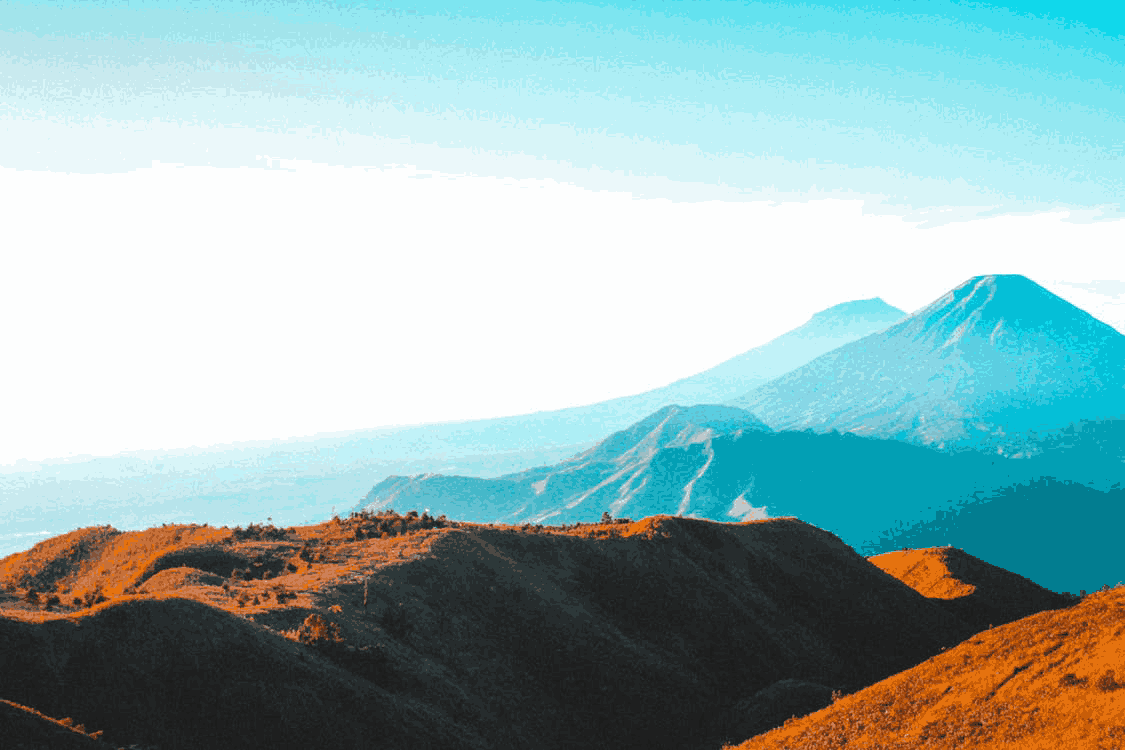
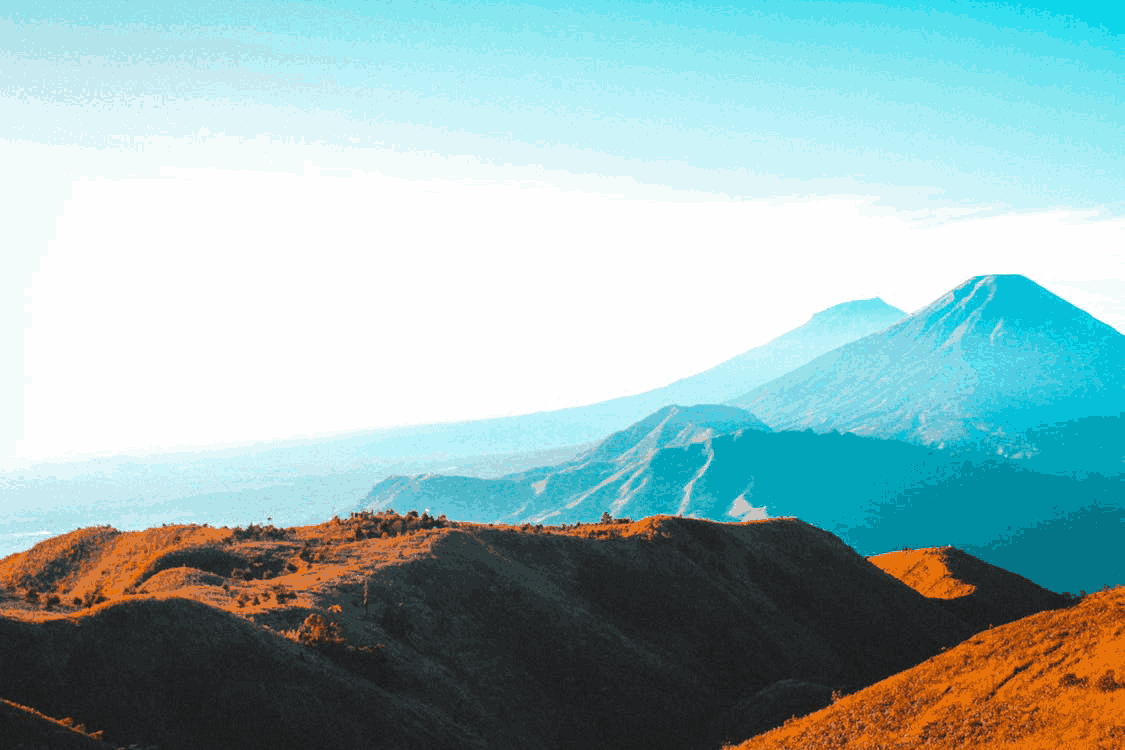
Add deterministic to go implementation

diff --git a/img2color.go b/img2color.go
@@ -15,9 +15,9 @@ import "image/color"
 
 func color_diff(a [3]int, b []int) int {
 	var d [3]int
-	d[0] = a[0]/257 - b[0]
-	d[1] = a[1]/257 - b[1]
-	d[2] = a[2]/257 - b[2]
+	d[0] = a[0]>>8 - b[0]
+	d[1] = a[1]>>8 - b[1]
+	d[2] = a[2]>>8 - b[2]
 	if d[0] < 0 {
 		d[0] *= -1
 	}
@@ -55,17 +55,17 @@ func assign_k(image image.Image, k int, k_med [][]int, start int, stop int, ch c
 	ch <- tmp_mat
 }
 
-func medium_k(image image.Image, k int, width int, height int, k_mat [][]int, ch_m chan []int) {
-	k_m := make([]int, 3)
+func medium_k(image image.Image, j int, width int, height int, k_mat [][]int, ch_m chan []int) {
+	k_m := make([]int, 4)
 	count := 0
 	for x := 0; x < width; x++ {
 		for y := 0; y < height; y++ {
-			if k_mat[x][y] == k {
+			if k_mat[x][y] == j {
 				count++
 				r, g, b, _ := image.At(x, y).RGBA()
-				k_m[0] += int(r) / 257
-				k_m[1] += int(g) / 257
-				k_m[2] += int(b) / 257
+				k_m[0] += int(r) >> 8
+				k_m[1] += int(g) >> 8
+				k_m[2] += int(b) >> 8
 			}
 		}
 	}
@@ -74,6 +74,7 @@ func medium_k(image image.Image, k int, width int, height int, k_mat [][]int, ch
 		k_m[1] /= count
 		k_m[2] /= count
 	}
+	k_m[3] = j
 	ch_m <- k_m
 }
 
@@ -83,11 +84,11 @@ func kmeans(image image.Image, k int, t int, n int) [][]int {
 
 	k_med := make([][]int, k)
 	r, _, _, _ := image.At(0, 0).RGBA()
-	fmt.Println(r / 257)
-	rand.Seed(int64(r / 257))
+	fmt.Println(r >> 8)
+	rand.Seed(int64(r >> 8))
 	for i := 0; i < k; i++ {
 		R, G, B, _ := image.At(int(rand.Int31n(int32(image.Bounds().Max.X))), int(rand.Int31n(int32(image.Bounds().Max.Y)))).RGBA()
-		k_med[i] = []int{int(R) / 257, int(G) / 257, int(B) / 257}
+		k_med[i] = []int{int(R) >> 8, int(G) >> 8, int(B) >> 8}
 	}
 	fmt.Println(k_med)
 	k_mat := make([][]int, image.Bounds().Max.X)
@@ -104,12 +105,12 @@ func kmeans(image image.Image, k int, t int, n int) [][]int {
 			re := <-ch
 			copy(k_mat[re[len(re)-1][0]:re[len(re)-1][1]], re[0:len(re)-2])
 		}
-		//medium(image, k, image.Bounds().Max.X, image.Bounds().Max.Y, k_med, k_mat)
 		for j := 0; j < k; j++ {
 			go medium_k(image, j, image.Bounds().Max.X, image.Bounds().Max.Y, k_mat, ch_m)
 		}
 		for j := 0; j < k; j++ {
-			k_med[j] = <-ch_m
+			k_m := <-ch_m
+			k_med[k_m[3]] = k_m[:3]
 		}
 
 		fmt.Println(k_med)
